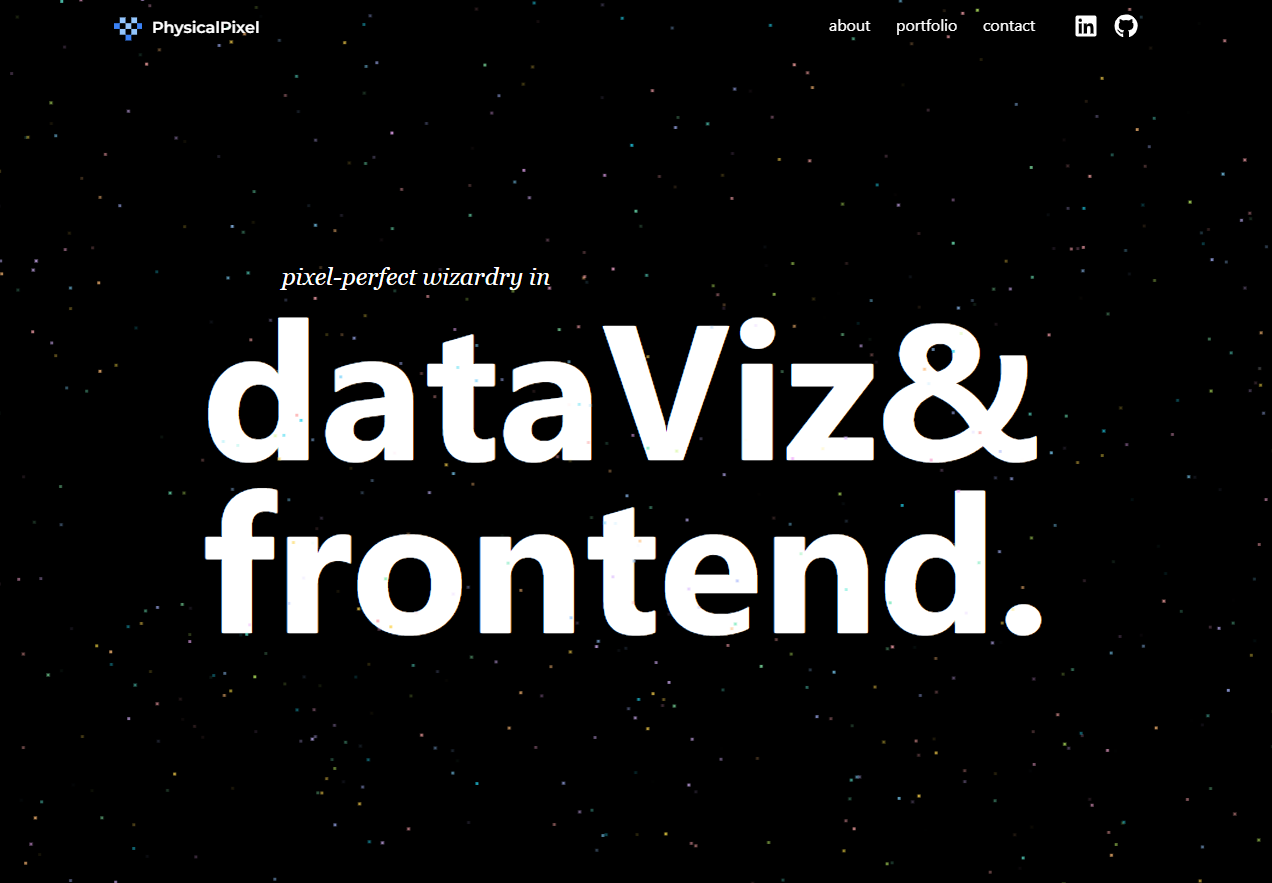
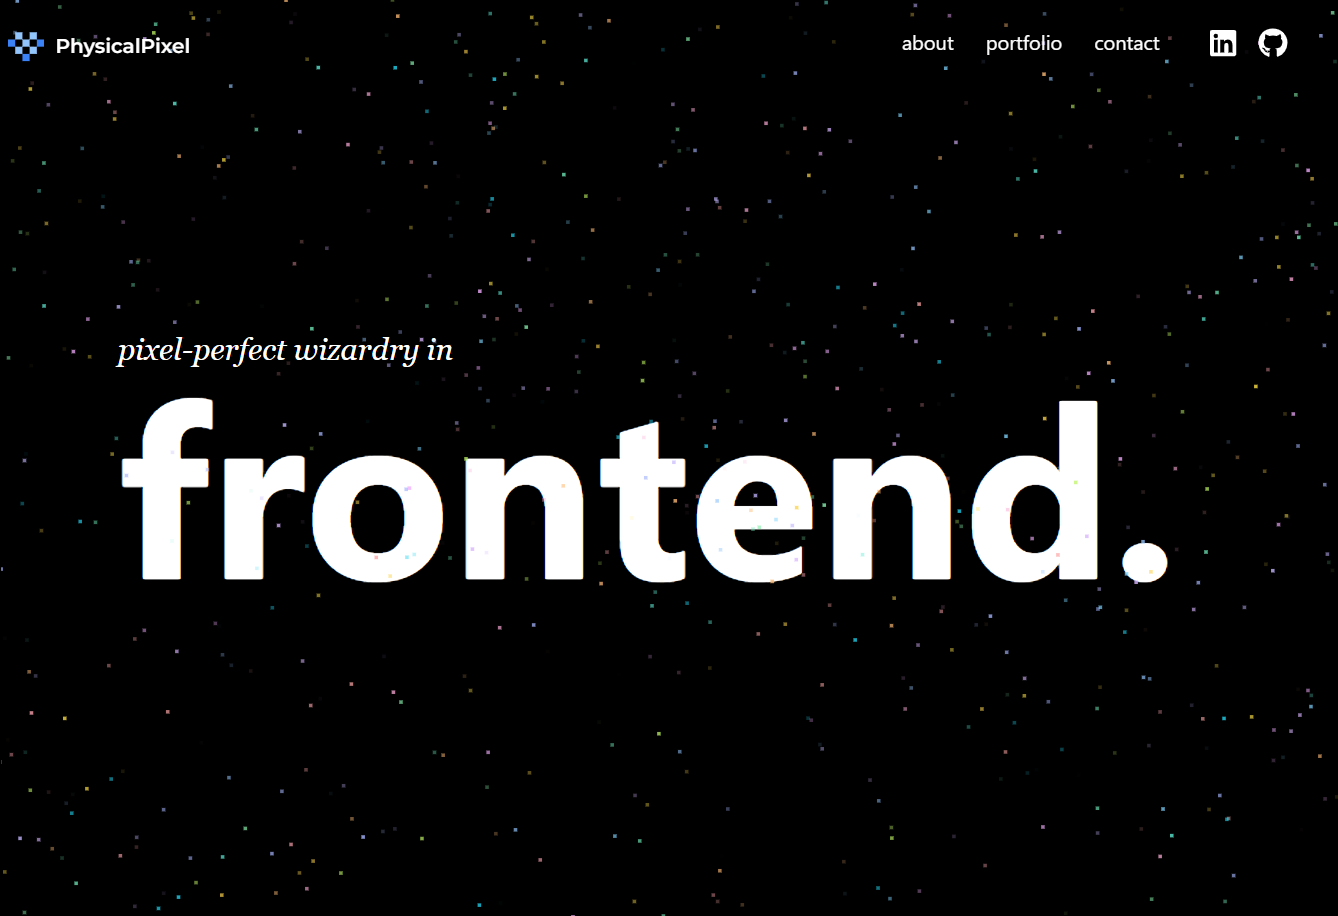
removed dataviz from main title and about me

Changed region(s): [[0.092, 0.3058, 0.8892, 0.7339], [0.6745, 0.0, 0.9811, 0.0612], [0.0, 0.0, 0.2146, 0.0612]]

diff --git a/src/pages/index.tsx b/src/pages/index.tsx
@@ -101,7 +101,10 @@ export default function Index() {
 			<div className="flex flex-col justify-center  lg:pr-16 pr-0 items-center lg::w-1/2 w-full md:p-0 p-3">
 				<div className="md:text-8xl text-7xl font-bold pb-3">about</div>
 				<div className="text-lg text-justify lg:p-0 p-4">
-					<p>Hi! I'm a front-end and data visualization developer passionate about crafting responsive web experiences. I work with tools like React and various charting libraries to build interfaces that perform as well as they look. This site is a collection of the projects I've created, experiments I've run, and the path I'm carving as a developer. Off the clock, I swap pixels for pictures, still chasing the perfect frame just with a different lens. </p>
+					<p>
+						Hi! I'm a frontend developer crafting responsive, high-performance web interfaces. I create interactive, accessible applications with React, JavaScript/TypeScript, Remix, Tailwind CSS and modern front-end frameworks, compliant with web fundamentals like performance, accessibility, and responsive design. This site is a collection of the projects I've created, experiments I've run, and the path I'm carving as a developer. Off the clock, I swap pixels for pictures, still chasing
+						the perfect frame just with a different lens.
+					</p>
 				</div>
 			</div>
 			<div className="flex gap-6 lg:w-1/2 w-full items-center text-white justify-center ">
@@ -339,13 +342,11 @@ export default function Index() {
 			</div>
 			<div className="h-screen items-center justify-center flex flex-col text-white">
 				<div className="flex flex-col">
-					<div className="lg:text-[30px] text-[20px] font-serif font-normal italic flex pl-[33px] md:pl-[65px] lg:pl-[100px]">pixel-perfect wizardry in</div>
+					<div className="lg:text-[30px] text-[20px] font-serif font-normal italic flex ">pixel-perfect wizardry in</div>
 					<div className="flex items-start justify-center flex-col">
 						<div
 							className="
-						 text-[5em] md:text-[10em] lg:text-[15em] font-bold leading-[0.9]">
-							dataViz&
-						</div>
+						 text-[5em] md:text-[10em] lg:text-[15em] font-bold leading-[0.9]"></div>
 						<div
 							className="
 						text-[5em] md:text-[10em] lg:text-[15em] font-bold leading-[0.9]">

diff --git a/src/pages/LibraryScore.tsx b/src/pages/LibraryScore.tsx
@@ -1,0 +1,8 @@
+export default function LibraryScore() {
+	return (
+		<div>
+			<h1>Library Score</h1>
+			<p>This page will display the library score.</p>
+		</div>
+	)
+}
